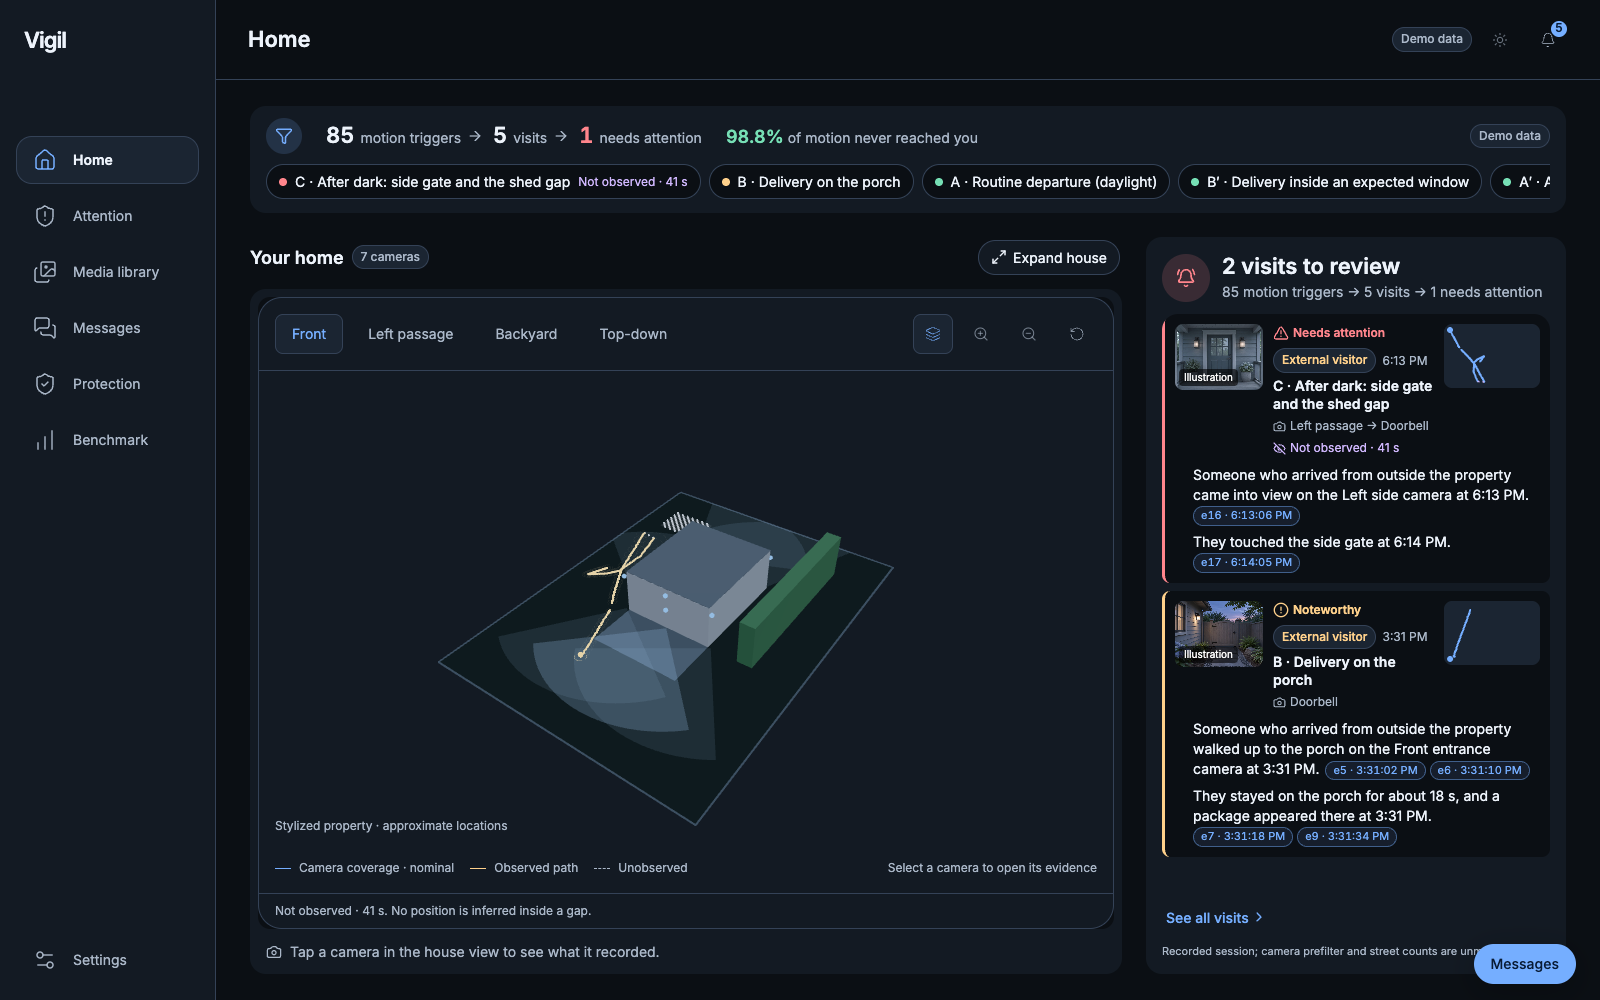
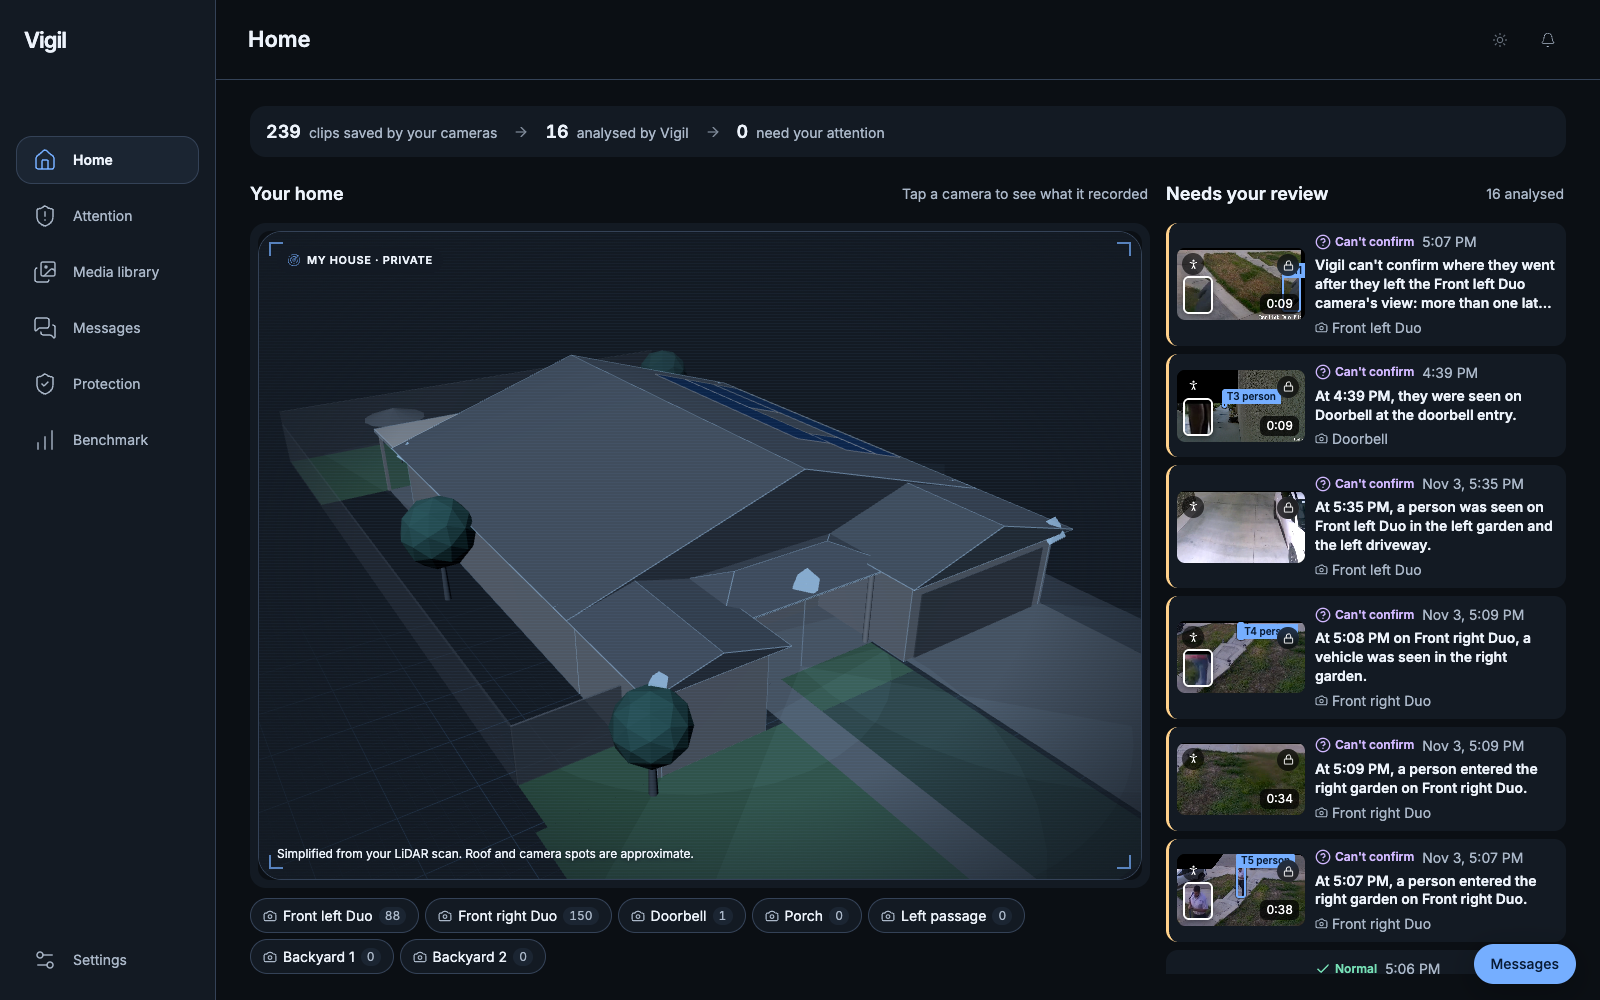
docs: use the owner-approved real Home screenshot in README
Publish the exact screenshot approved by the owner from http://127.0.0.1:8000/#/home. Label its real masked previews honestly and retain the synthetic visit screenshot separately.

Bind owner approval to the image hash and private-repository scope. Extend static screenshot provenance validation without bypassing PNG, audio, integrity or metadata checks; preserve fixture rejection of camera pixels. Tests written and observed failing before implementation.

Verified: 1710 offline Python tests, Ruff lint/format, privacy scan, screenshot provenance and metadata, secret scan and independent review. Repository visibility remains private.

diff --git a/scripts/ui_evidence.py b/scripts/ui_evidence.py
@@ -1,7 +1,8 @@
-"""Hash-bound manual review of static generated UI/public-reference screenshots.
+"""Hash-bound review of static UI and public-reference screenshots.
 
-This never accepts footage. It verifies screenshot provenance, pixels decode, audio
-absence and metadata. It makes no camera-polygon claim about UI screenshots.
+Fixture captures exclude camera pixels. A real-home UI capture additionally needs the
+owner's explicit, image-bound private-repository approval and masking review. Raw footage
+is never accepted; PNG decoding, audio absence and metadata checks apply to every kind.
 """
 
 import argparse
@@ -10,6 +11,7 @@ import json
 import os
 import sys
 from concurrent.futures import ThreadPoolExecutor
+from datetime import date
 from pathlib import Path
 from urllib.parse import urlparse
 
@@ -48,12 +50,11 @@ def pin_fixture(path: Path, manifest: Path) -> dict:
 def validate_manifest(root: Path, manifest: Path) -> tuple[int, list[str]]:
     try:
         record = json.loads(manifest.read_text(encoding="utf-8"))
-        if (
-            record.get("reviewed") is not True
-            or not record.get("reviewer")
-            or record.get("contains_camera_pixels") is not False
-        ):
-            raise ValueError("UI screenshots require explicit manual review and no camera pixels")
+        if record.get("reviewed") is not True or not record.get("reviewer"):
+            raise ValueError("UI screenshots require explicit manual review")
+        kind = record.get("kind")
+        if kind != "owner_reviewed_ui" and record.get("contains_camera_pixels") is not False:
+            raise ValueError("Fixture and reference UI screenshots cannot contain camera pixels")
         source = urlparse(record.get("source", ""))
         if record.get("kind") == "generated_ui":
             if source.hostname not in {"localhost", "127.0.0.1"} or not record.get("fixtures"):
@@ -84,6 +85,30 @@ def validate_manifest(root: Path, manifest: Path) -> tuple[int, list[str]]:
                             check(child)
 
                 check(data)
+        elif kind == "owner_reviewed_ui":
+            approval = record.get("owner_approval")
+            privacy = record.get("privacy")
+            if (
+                record.get("contains_camera_pixels") is not True
+                or source.scheme != "http"
+                or source.hostname not in {"localhost", "127.0.0.1"}
+                or source.username is not None
+                or source.password is not None
+                or not isinstance(approval, dict)
+                or approval.get("confirmed") is not True
+                or approval.get("scope") != "private_repository_readme"
+                or not isinstance(approval.get("statement"), str)
+                or not approval["statement"].strip()
+                or not record.get("files")
+                or approval.get("files") != record["files"]
+                or not isinstance(privacy, dict)
+                or any(
+                    privacy.get(key) is not True
+                    for key in ("masked_previews", "no_identifying_details", "no_raw_media")
+                )
+            ):
+                raise ValueError("Real-home UI needs exact-image owner approval and masking review")
+            date.fromisoformat(approval["date"])
         elif record.get("kind") == "public_reference":
             domains = ("meta.com", "instagram.com", "messenger.com", "facebook.com", "meta.ai")
             host = source.hostname or ""

diff --git a/tests/unit/test_ui_privacy.py b/tests/unit/test_ui_privacy.py
@@ -183,3 +183,88 @@ def test_capture_manifest_pins_immutable_fixture_snapshot(tmp_path, monkeypatch)
     assert ui_evidence.validate_manifest(root, root / "ui-privacy.json")[1] == []
     snapshot.write_text("tampered snapshot")
     assert ui_evidence.validate_manifest(root, root / "ui-privacy.json")[1]
+
+
+def _owner_reviewed_capture(root):
+    from scripts.ui_evidence import sha
+
+    root.mkdir()
+    image = root / "home.png"
+    assert cv2.imwrite(str(image), np.zeros((16, 16, 3), dtype=np.uint8))
+    files = {"home.png": sha(image)}
+    return {
+        "kind": "owner_reviewed_ui",
+        "source": "http://127.0.0.1:8000/#/home",
+        "reviewer": "Fixture owner",
+        "reviewed": True,
+        "contains_camera_pixels": True,
+        "privacy": {
+            "masked_previews": True,
+            "no_identifying_details": True,
+            "no_raw_media": True,
+        },
+        "owner_approval": {
+            "confirmed": True,
+            "date": "2026-11-04",
+            "scope": "private_repository_readme",
+            "statement": "I reviewed and approve this exact screenshot for the private repo.",
+            "files": dict(files),
+        },
+        "files": files,
+    }
+
+
+def test_owner_reviewed_ui_requires_approval_bound_to_the_exact_capture(tmp_path):
+    from scripts.ui_evidence import validate_manifest
+
+    root = tmp_path / "qa"
+    record = _owner_reviewed_capture(root)
+    manifest = root / "owner-privacy.json"
+    manifest.write_text(json.dumps(record))
+    assert validate_manifest(root, manifest) == (1, [])
+    # Replacing an approved image cannot reuse its owner's previous approval.
+    record["files"]["home.png"] = "0" * 64
+    manifest.write_text(json.dumps(record))
+    assert validate_manifest(root, manifest)[1]
+
+
+def test_owner_reviewed_ui_fails_closed_without_scoped_review(tmp_path):
+    from copy import deepcopy
+
+    from scripts.ui_evidence import validate_manifest
+
+    root = tmp_path / "qa"
+    original = _owner_reviewed_capture(root)
+    manifest = root / "owner-privacy.json"
+    changes = [
+        ("owner_approval", "confirmed", False),
+        ("owner_approval", "date", "not-a-date"),
+        ("owner_approval", "scope", "public_release"),
+        ("owner_approval", "statement", ""),
+        ("privacy", "masked_previews", False),
+        ("privacy", "no_identifying_details", False),
+        ("privacy", "no_raw_media", False),
+    ]
+    for section, key, value in changes:
+        record = deepcopy(original)
+        record[section][key] = value
+        manifest.write_text(json.dumps(record))
+        assert validate_manifest(root, manifest)[1], (section, key)
+    for key, value in [("source", "https://example.com/"), ("contains_camera_pixels", False)]:
+        record = deepcopy(original)
+        record[key] = value
+        manifest.write_text(json.dumps(record))
+        assert validate_manifest(root, manifest)[1], key
+
+
+def test_owner_review_does_not_bypass_image_decoding(tmp_path):
+    from scripts.ui_evidence import sha, validate_manifest
+
+    root = tmp_path / "qa"
+    record = _owner_reviewed_capture(root)
+    (root / "home.png").write_bytes(b"not an image")
+    record["files"] = {"home.png": sha(root / "home.png")}
+    record["owner_approval"]["files"] = dict(record["files"])
+    manifest = root / "owner-privacy.json"
+    manifest.write_text(json.dumps(record))
+    assert validate_manifest(root, manifest)[1]

diff --git a/README.md b/README.md
@@ -12,9 +12,9 @@ Built for the **Meta Global AI Developer Hackathon 2026**.
 
 </div>
 
-![Vigil Home with synthetic demo data](qa/final/home.png)
+![Vigil real-home dashboard — owner-approved capture](qa/final/home.png)
 
-*Current React interface, captured November 4, 2026, using synthetic demo data. No home-camera footage is included.*
+*Owner-reviewed capture of the local Home dashboard at `http://127.0.0.1:8000/#/home`, November 4, 2026. It shows masked camera previews and the simplified house model. Approved for this private repository; the hosted sandbox below uses synthetic data.*
 
 ## From motion alerts to a visit story
 
@@ -110,7 +110,7 @@ The image defaults to sandbox mode and cache-only model access. Real-camera setu
 
 ## Privacy and trust boundaries
 
-- **Public demo data is synthetic.** Raw footage, private scans, camera credentials, local databases and `.env` stay out of Git. The public house view uses generic geometry.
+- **The hosted sandbox uses synthetic data.** The README Home image is a separate owner-approved local dashboard capture with masked previews. Raw footage, private scan files, camera credentials, local databases and `.env` stay out of Git. The public sandbox house view uses generic geometry.
 - **Mask before inference.** The cloud path sends reviewed, privacy-masked, audio-free inputs to Meta. Raw home footage stays local; streets, neighbours and identifying details must be excluded before processing or export.
 - **Decisions do not use identity.** Rules, roles, event ledgers and stories never use face templates or profile names. Optional local recurring-visitor profiles are isolated from reasoning and disabled by default. Clothing-based groups are labelled as uncertain matches. See the [profile design and limits](docs/spec/changes/2026-11-04-face-templates.md).
 - **Camera audio is excluded.** Voice rules use a separate flow. Only fixtures on the explicit audio allowlist may be versioned.

diff --git a/qa/README.md b/qa/README.md
@@ -1,6 +1,12 @@
 # Curated product screenshots
 
-Only two final screenshots are versioned: [Home](final/home.png) and [visit evidence](final/visit.png). They use explicitly labelled demo data; no camera footage appears. Captured from the current React production build on November 4, 2026, at 1600 × 1000, with Inter. Home shows the alert funnel and cited story cards; visit evidence shows the route replay and verdict explanation. The pinned fixture records the source commit and frontend content hashes.
+Two screenshots are versioned: [Home](final/home.png) and [visit evidence](final/visit.png).
+Home is the exact capture of `http://127.0.0.1:8000/#/home` that the owner reviewed and approved
+on November 4, 2026, for this **private repository**. It contains masked property-camera
+previews and a simplified house model. Its separate `home-privacy.json` records the owner's
+approval against the exact image hash. The visit view uses labelled synthetic demo data,
+with no camera footage, and retains its independent fixture provenance. Both are 1600 × 1000.
+A future public release requires a new owner review of the Home image's publication scope.
 
 All repository images together must remain below 10 MB. Working captures belong in ignored `data/qa/`; do not commit per-control or per-viewport archives. `scripts/scan_ui_evidence.py` enforces this policy and preserves provenance, pixel decoding, audio and metadata checks for the final captures.
 
